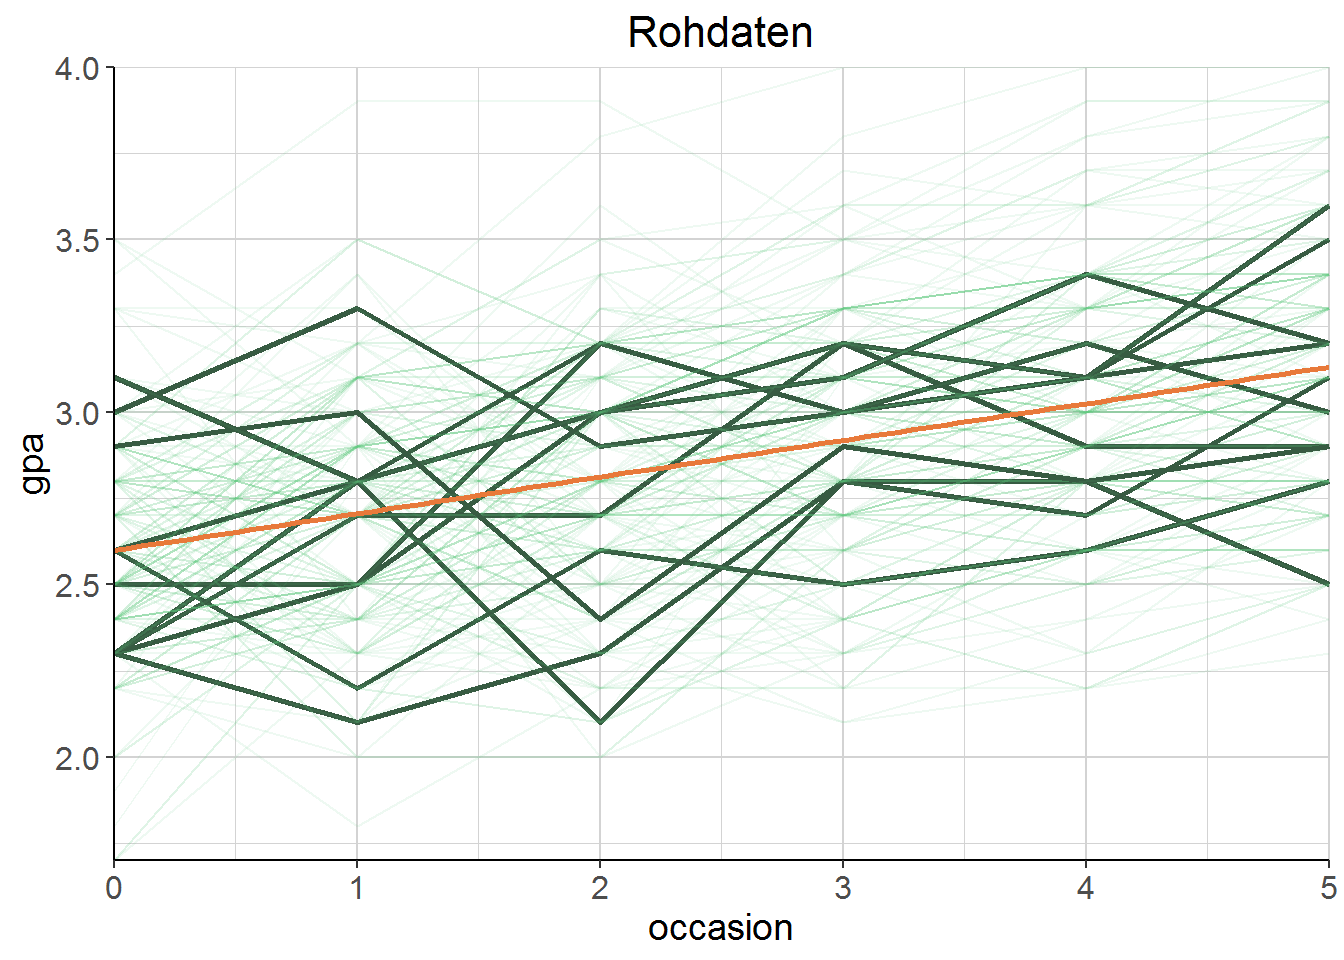
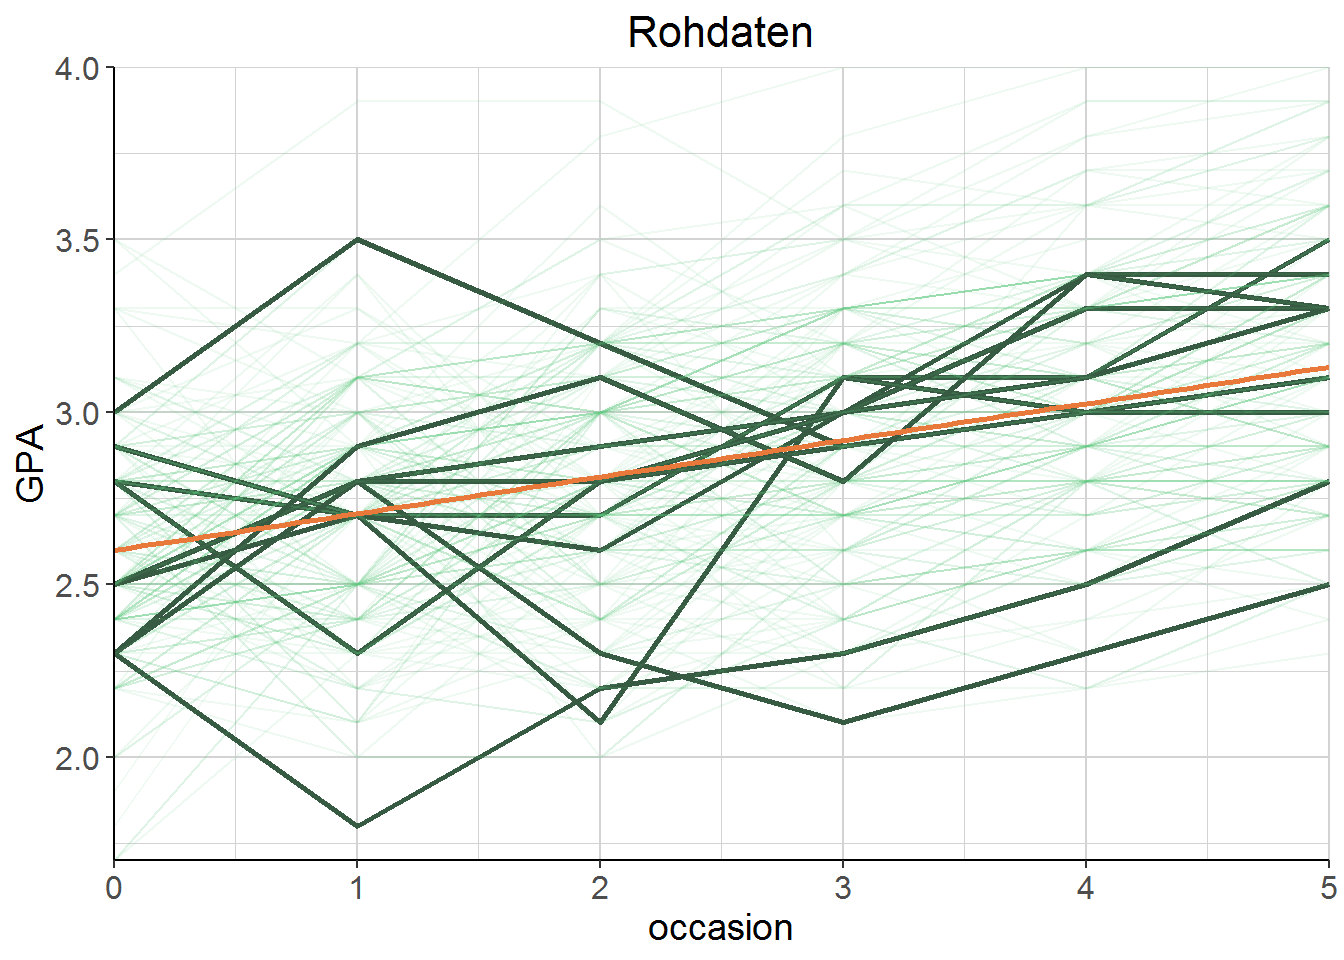
mixed model vs. Regression pro Student vs. Regression mit Interaktion

diff --git a/mixed_models/mixed-models-vs-einzelne-regressionen.html b/mixed_models/mixed-models-vs-einzelne-regressionen.html
@@ -148,7 +148,10 @@ code span.wa { color: #60a0b0; font-weight: bold; font-style: italic; } /* Warni
 </ul></li>
 </ul></li>
 <li class="chapter" data-level="3" data-path="randomslopes.html"><a href="randomslopes.html"><i class="fa fa-check"></i><b>3</b> Random slope models</a><ul>
-<li class="chapter" data-level="3.1" data-path="mixed-models-vs-einzelne-regressionen.html"><a href="mixed-models-vs-einzelne-regressionen.html"><i class="fa fa-check"></i><b>3.1</b> Mixed Models vs. einzelne Regressionen</a></li>
+<li class="chapter" data-level="3.1" data-path="mixed-models-vs-einzelne-regressionen.html"><a href="mixed-models-vs-einzelne-regressionen.html"><i class="fa fa-check"></i><b>3.1</b> Mixed Models vs. einzelne Regressionen</a><ul>
+<li class="chapter" data-level="3.1.1" data-path="mixed-models-vs-einzelne-regressionen.html"><a href="mixed-models-vs-einzelne-regressionen.html#density"><i class="fa fa-check"></i><b>3.1.1</b> Density</a></li>
+<li class="chapter" data-level="3.1.2" data-path="mixed-models-vs-einzelne-regressionen.html"><a href="mixed-models-vs-einzelne-regressionen.html#predictions"><i class="fa fa-check"></i><b>3.1.2</b> Predictions</a></li>
+</ul></li>
 </ul></li>
 </ul>
 
@@ -169,6 +172,8 @@ code span.wa { color: #60a0b0; font-weight: bold; font-style: italic; } /* Warni
             <section class="normal" id="section-">
 <div id="mixed-models-vs.-einzelne-regressionen" class="section level2">
 <h2><span class="header-section-number">3.1</span> Mixed Models vs. einzelne Regressionen</h2>
+<div id="density" class="section level3">
+<h3><span class="header-section-number">3.1.1</span> Density</h3>
 <p>Der Vergleich mit einer einzelnen Regression pro Student liegt nahe, aber hier wird es etwas merkwürdig. Er gibt hier den folgenden Code an, um separate Regressionen pro Student durchzuführen (ich habe ihn etwas modifiziert). Aus der Beschreibung von <code>lmList</code>, scheinbar eine extrem lustige Funktion: “Fit a list of <code>lm</code> or <code>glm</code> objects with a common model for different subgroups of the data.”</p>
 <pre class="sourceCode r"><code class="sourceCode r">gpa_lm_by_group &lt;-<span class="st"> </span><span class="kw">lmList</span>(gpa <span class="op">~</span><span class="st"> </span>occasion <span class="op">|</span><span class="st"> </span>student, gpa)</code></pre>
 <p>Clark schreibt dazu: “Let’s compare these results to the ones we would have gotten had we run a separate regression for each student. In what follows we see the distribution of of (sic) the estimated intercept and slope coefficients for all the students. Note that these are the same estimates one would have gotten with a fixed effects model with an occasion by student interaction.” Aber irgendwie scheint das alles nicht dasselbe zu sein, denn ich habe besagtes Modell auch aufgestellt und es kommt was anderes dabei rum (zumal das Intercept in dem Fall ja auch immer dasselbe ist). Ich weiß nicht, was er sonst damit meinen sollte und ich finde es verstörend. Vielleicht geht mir da noch ein Licht auf.</p>
@@ -177,10 +182,18 @@ code span.wa { color: #60a0b0; font-weight: bold; font-style: italic; } /* Warni
 <p><img src="01_first_things_first_files/figure-html/unnamed-chunk-51-1.png" width="672" /></p>
 <p>In jedem Fall dürfte die Regression Student für Student mit dem Code, den er verwendet hat, das sein, was uns interessiert. Und auch in den zusätzlichen Plots basierend auf Simulationen, <a href="https://m-clark.github.io/mixed-models-with-R/random_slopes.html#comparison-to-many-regressions">die er bastelt</a>, wird die Hauptmessage deutlich: Die Intercepts und Slopes von mixed Models sind weniger extrem und tummeln sich stärker um den overall Effect. Je stärker der Effekt der Subgruppen, desto größer die Unsicherheit über den overall Effect.</p>
 <p>Schöne Erklärung auch zu <span style=" font-weight: bold;    color: #E8793A !important;">partial pooling</span>: <span style=" font-weight: bold;    color: #6BBFA6 !important;">Complete pooling</span> wäre ein standard Regressionsmodell, das Cluster völlig ignoriert. <span style=" font-weight: bold;    color: #6BBFA6 !important;">Gar kein pooling</span> hat man bei der Herangehensweise mit den einzelnen Regressionen pro Student, wie wir das gerade gemacht haben. Mixed models kann man mit <span style=" font-weight: bold;    color: #6BBFA6 !important;">partial pooling</span> beschreiben, weil die Ähnlichkeit zwischen den Clustern geschätzt wird, wobei die Daten über alle Observations hinweg die Schätzung der Cluster informieren.</p>
+</div>
+<div id="predictions" class="section level3">
+<h3><span class="header-section-number">3.1.2</span> Predictions</h3>
 <p>Spannend wird es, wenn man die Vorhersagen der beiden Herangehensweisen (mixed model vs. einzelne Regressionen) visualisiert:</p>
 <p><img src="01_first_things_first_files/figure-html/unnamed-chunk-52-1.png" width="672" /></p>
+<p>Jetzt der Vergleich der Predictions der jeweiligen Modelle. Farblich kodiert werden
+Predictions aufwärts vs. abwärts. Gehighlighted sind im Folgenden immer dieselben sechs Studenten; drei, die im mixed Model einen Aufwärtstrend zeigen und drei, die im mixed Model einen ABwärtstrend zeigen (das sind dort eh nur drei). In Dunkelgrün die overall Regressionslinie.</p>
 <p><img src="01_first_things_first_files/figure-html/unnamed-chunk-53-1.png" width="672" /></p>
-<p><span style=" font-weight: bold;    color: #E8793A !important;">TO DO:</span> Rausfinden, wieso die Linien im zweiten Plot nicht korrekt gehighlighted werden.</p>
+<p>Im Vergleich dazu die Predictions der Regression pro Student und der Regression mit Interaktion Occasion <span class="math inline">\(\times\)</span> Student. <strong>Jetzt</strong> wird auch klar, was er damit meinte, als er sagte, die Regression pro Gruppe und die Regression mit Interaktion seien dasselbe. Die Predictions sind exakt gleich! Das heißt vermutlich, dass ich bei den Density Plots was falsch gemacht/nicht verstanden habe.</p>
+<p><img src="01_first_things_first_files/figure-html/unnamed-chunk-54-1.png" width="672" /></p>
+<p><img src="01_first_things_first_files/figure-html/unnamed-chunk-55-1.png" width="672" /></p>
+</div>
 </div>
 <!-- </div> -->
             </section>

diff --git a/mixed_models/fancy-plot-zum-klauen.html b/mixed_models/fancy-plot-zum-klauen.html
@@ -148,7 +148,10 @@ code span.wa { color: #60a0b0; font-weight: bold; font-style: italic; } /* Warni
 </ul></li>
 </ul></li>
 <li class="chapter" data-level="3" data-path="randomslopes.html"><a href="randomslopes.html"><i class="fa fa-check"></i><b>3</b> Random slope models</a><ul>
-<li class="chapter" data-level="3.1" data-path="mixed-models-vs-einzelne-regressionen.html"><a href="mixed-models-vs-einzelne-regressionen.html"><i class="fa fa-check"></i><b>3.1</b> Mixed Models vs. einzelne Regressionen</a></li>
+<li class="chapter" data-level="3.1" data-path="mixed-models-vs-einzelne-regressionen.html"><a href="mixed-models-vs-einzelne-regressionen.html"><i class="fa fa-check"></i><b>3.1</b> Mixed Models vs. einzelne Regressionen</a><ul>
+<li class="chapter" data-level="3.1.1" data-path="mixed-models-vs-einzelne-regressionen.html"><a href="mixed-models-vs-einzelne-regressionen.html#density"><i class="fa fa-check"></i><b>3.1.1</b> Density</a></li>
+<li class="chapter" data-level="3.1.2" data-path="mixed-models-vs-einzelne-regressionen.html"><a href="mixed-models-vs-einzelne-regressionen.html#predictions"><i class="fa fa-check"></i><b>3.1.2</b> Predictions</a></li>
+</ul></li>
 </ul></li>
 </ul>
 
@@ -179,14 +182,13 @@ gpa &lt;-<span class="st"> </span>gpa <span class="op">%&gt;%</span><span class=
 <span class="st">  </span><span class="kw">mutate</span>(<span class="dt">highlight =</span> <span class="kw">ifelse</span>(student <span class="op">%in%</span><span class="st"> </span><span class="kw">sample</span>(<span class="kw">unique</span>(student), <span class="dv">10</span>), <span class="ot">TRUE</span>, <span class="ot">FALSE</span>))</code></pre>
 <pre class="sourceCode r"><code class="sourceCode r">gpa <span class="op">%&gt;%</span>
 <span class="st">  </span><span class="kw">ggplot</span>(<span class="kw">aes</span>(<span class="dt">x =</span> occasion, <span class="dt">y =</span> gpa)) <span class="op">+</span>
-<span class="st">  </span><span class="co"># Kehrt Reihenfolge um, damit TRUE über FALSE geplottet wird und </span>
-<span class="st">  </span><span class="co"># gehighlightete Linien nicht von den anderen überdeckt werden</span>
-<span class="st">  </span><span class="kw">geom_line</span>(<span class="kw">aes</span>(<span class="dt">group =</span> student, <span class="dt">colour =</span> <span class="kw">rev</span>(highlight), <span class="dt">alpha =</span> <span class="kw">rev</span>(highlight), 
-                <span class="dt">size =</span> <span class="kw">rev</span>(highlight))) <span class="op">+</span>
+<span class="st">  </span><span class="kw">geom_line</span>(<span class="kw">aes</span>(<span class="dt">group =</span> student, <span class="dt">colour =</span> highlight, <span class="dt">alpha =</span> highlight, 
+                <span class="dt">size =</span> highlight)) <span class="op">+</span>
 <span class="st">  </span><span class="kw">geom_smooth</span>(<span class="dt">method =</span> <span class="st">&quot;lm&quot;</span>, <span class="dt">colour =</span> farbschema[<span class="dv">1</span>], <span class="dt">se =</span> <span class="ot">FALSE</span>) <span class="op">+</span>
-<span class="st">  </span><span class="kw">scale_alpha_discrete</span>(<span class="dt">range =</span> <span class="kw">c</span>(.<span class="dv">1</span>, <span class="dv">1</span>)) <span class="op">+</span>
-<span class="st">  </span><span class="kw">scale_size_discrete</span>(<span class="dt">range =</span> <span class="kw">c</span>(.<span class="dv">5</span>, <span class="dv">1</span>)) <span class="op">+</span>
+<span class="st">  </span><span class="kw">scale_alpha_manual</span>(<span class="dt">values =</span> <span class="kw">c</span>(.<span class="dv">1</span>, <span class="dv">1</span>)) <span class="op">+</span>
+<span class="st">  </span><span class="kw">scale_size_manual</span>(<span class="dt">values =</span> <span class="kw">c</span>(.<span class="dv">5</span>, <span class="dv">1</span>)) <span class="op">+</span>
 <span class="st">  </span><span class="kw">scale_colour_manual</span>(<span class="dt">values =</span> <span class="kw">pick_colour</span>(<span class="dv">2</span>, <span class="st">&quot;mono_green&quot;</span>)) <span class="op">+</span>
+<span class="st">  </span><span class="kw">labs</span>(<span class="dt">title =</span> <span class="st">&quot;Rohdaten&quot;</span>) <span class="op">+</span>
 <span class="st">  </span>julis_theme <span class="op">+</span>
 <span class="st">  </span><span class="kw">theme</span>(<span class="dt">legend.position =</span> <span class="st">&quot;none&quot;</span>) <span class="op">+</span>
 <span class="st">  </span><span class="kw">scale_y_continuous</span>(<span class="dt">expand =</span> <span class="kw">c</span>(<span class="dv">0</span>, <span class="dv">0</span>)) <span class="op">+</span>

diff --git a/mixed_models/first-things-first.html b/mixed_models/first-things-first.html
@@ -148,7 +148,10 @@ code span.wa { color: #60a0b0; font-weight: bold; font-style: italic; } /* Warni
 </ul></li>
 </ul></li>
 <li class="chapter" data-level="3" data-path="randomslopes.html"><a href="randomslopes.html"><i class="fa fa-check"></i><b>3</b> Random slope models</a><ul>
-<li class="chapter" data-level="3.1" data-path="mixed-models-vs-einzelne-regressionen.html"><a href="mixed-models-vs-einzelne-regressionen.html"><i class="fa fa-check"></i><b>3.1</b> Mixed Models vs. einzelne Regressionen</a></li>
+<li class="chapter" data-level="3.1" data-path="mixed-models-vs-einzelne-regressionen.html"><a href="mixed-models-vs-einzelne-regressionen.html"><i class="fa fa-check"></i><b>3.1</b> Mixed Models vs. einzelne Regressionen</a><ul>
+<li class="chapter" data-level="3.1.1" data-path="mixed-models-vs-einzelne-regressionen.html"><a href="mixed-models-vs-einzelne-regressionen.html#density"><i class="fa fa-check"></i><b>3.1.1</b> Density</a></li>
+<li class="chapter" data-level="3.1.2" data-path="mixed-models-vs-einzelne-regressionen.html"><a href="mixed-models-vs-einzelne-regressionen.html#predictions"><i class="fa fa-check"></i><b>3.1.2</b> Predictions</a></li>
+</ul></li>
 </ul></li>
 </ul>
 

diff --git a/mixed_models/hilfreiche-definitionen.html b/mixed_models/hilfreiche-definitionen.html
@@ -148,7 +148,10 @@ code span.wa { color: #60a0b0; font-weight: bold; font-style: italic; } /* Warni
 </ul></li>
 </ul></li>
 <li class="chapter" data-level="3" data-path="randomslopes.html"><a href="randomslopes.html"><i class="fa fa-check"></i><b>3</b> Random slope models</a><ul>
-<li class="chapter" data-level="3.1" data-path="mixed-models-vs-einzelne-regressionen.html"><a href="mixed-models-vs-einzelne-regressionen.html"><i class="fa fa-check"></i><b>3.1</b> Mixed Models vs. einzelne Regressionen</a></li>
+<li class="chapter" data-level="3.1" data-path="mixed-models-vs-einzelne-regressionen.html"><a href="mixed-models-vs-einzelne-regressionen.html"><i class="fa fa-check"></i><b>3.1</b> Mixed Models vs. einzelne Regressionen</a><ul>
+<li class="chapter" data-level="3.1.1" data-path="mixed-models-vs-einzelne-regressionen.html"><a href="mixed-models-vs-einzelne-regressionen.html#density"><i class="fa fa-check"></i><b>3.1.1</b> Density</a></li>
+<li class="chapter" data-level="3.1.2" data-path="mixed-models-vs-einzelne-regressionen.html"><a href="mixed-models-vs-einzelne-regressionen.html#predictions"><i class="fa fa-check"></i><b>3.1.2</b> Predictions</a></li>
+</ul></li>
 </ul></li>
 </ul>
 

diff --git a/mixed_models/index.html b/mixed_models/index.html
@@ -148,7 +148,10 @@ code span.wa { color: #60a0b0; font-weight: bold; font-style: italic; } /* Warni
 </ul></li>
 </ul></li>
 <li class="chapter" data-level="3" data-path="randomslopes.html"><a href="randomslopes.html"><i class="fa fa-check"></i><b>3</b> Random slope models</a><ul>
-<li class="chapter" data-level="3.1" data-path="mixed-models-vs-einzelne-regressionen.html"><a href="mixed-models-vs-einzelne-regressionen.html"><i class="fa fa-check"></i><b>3.1</b> Mixed Models vs. einzelne Regressionen</a></li>
+<li class="chapter" data-level="3.1" data-path="mixed-models-vs-einzelne-regressionen.html"><a href="mixed-models-vs-einzelne-regressionen.html"><i class="fa fa-check"></i><b>3.1</b> Mixed Models vs. einzelne Regressionen</a><ul>
+<li class="chapter" data-level="3.1.1" data-path="mixed-models-vs-einzelne-regressionen.html"><a href="mixed-models-vs-einzelne-regressionen.html#density"><i class="fa fa-check"></i><b>3.1.1</b> Density</a></li>
+<li class="chapter" data-level="3.1.2" data-path="mixed-models-vs-einzelne-regressionen.html"><a href="mixed-models-vs-einzelne-regressionen.html#predictions"><i class="fa fa-check"></i><b>3.1.2</b> Predictions</a></li>
+</ul></li>
 </ul></li>
 </ul>
 

diff --git a/mixed_models/mixed-model-in-r.html b/mixed_models/mixed-model-in-r.html
@@ -148,7 +148,10 @@ code span.wa { color: #60a0b0; font-weight: bold; font-style: italic; } /* Warni
 </ul></li>
 </ul></li>
 <li class="chapter" data-level="3" data-path="randomslopes.html"><a href="randomslopes.html"><i class="fa fa-check"></i><b>3</b> Random slope models</a><ul>
-<li class="chapter" data-level="3.1" data-path="mixed-models-vs-einzelne-regressionen.html"><a href="mixed-models-vs-einzelne-regressionen.html"><i class="fa fa-check"></i><b>3.1</b> Mixed Models vs. einzelne Regressionen</a></li>
+<li class="chapter" data-level="3.1" data-path="mixed-models-vs-einzelne-regressionen.html"><a href="mixed-models-vs-einzelne-regressionen.html"><i class="fa fa-check"></i><b>3.1</b> Mixed Models vs. einzelne Regressionen</a><ul>
+<li class="chapter" data-level="3.1.1" data-path="mixed-models-vs-einzelne-regressionen.html"><a href="mixed-models-vs-einzelne-regressionen.html#density"><i class="fa fa-check"></i><b>3.1.1</b> Density</a></li>
+<li class="chapter" data-level="3.1.2" data-path="mixed-models-vs-einzelne-regressionen.html"><a href="mixed-models-vs-einzelne-regressionen.html#predictions"><i class="fa fa-check"></i><b>3.1.2</b> Predictions</a></li>
+</ul></li>
 </ul></li>
 </ul>
 

diff --git a/mixed_models/problem-einfache-regression.html b/mixed_models/problem-einfache-regression.html
@@ -148,7 +148,10 @@ code span.wa { color: #60a0b0; font-weight: bold; font-style: italic; } /* Warni
 </ul></li>
 </ul></li>
 <li class="chapter" data-level="3" data-path="randomslopes.html"><a href="randomslopes.html"><i class="fa fa-check"></i><b>3</b> Random slope models</a><ul>
-<li class="chapter" data-level="3.1" data-path="mixed-models-vs-einzelne-regressionen.html"><a href="mixed-models-vs-einzelne-regressionen.html"><i class="fa fa-check"></i><b>3.1</b> Mixed Models vs. einzelne Regressionen</a></li>
+<li class="chapter" data-level="3.1" data-path="mixed-models-vs-einzelne-regressionen.html"><a href="mixed-models-vs-einzelne-regressionen.html"><i class="fa fa-check"></i><b>3.1</b> Mixed Models vs. einzelne Regressionen</a><ul>
+<li class="chapter" data-level="3.1.1" data-path="mixed-models-vs-einzelne-regressionen.html"><a href="mixed-models-vs-einzelne-regressionen.html#density"><i class="fa fa-check"></i><b>3.1.1</b> Density</a></li>
+<li class="chapter" data-level="3.1.2" data-path="mixed-models-vs-einzelne-regressionen.html"><a href="mixed-models-vs-einzelne-regressionen.html#predictions"><i class="fa fa-check"></i><b>3.1.2</b> Predictions</a></li>
+</ul></li>
 </ul></li>
 </ul>
 

diff --git a/mixed_models/random-intercept-models.html b/mixed_models/random-intercept-models.html
@@ -148,7 +148,10 @@ code span.wa { color: #60a0b0; font-weight: bold; font-style: italic; } /* Warni
 </ul></li>
 </ul></li>
 <li class="chapter" data-level="3" data-path="randomslopes.html"><a href="randomslopes.html"><i class="fa fa-check"></i><b>3</b> Random slope models</a><ul>
-<li class="chapter" data-level="3.1" data-path="mixed-models-vs-einzelne-regressionen.html"><a href="mixed-models-vs-einzelne-regressionen.html"><i class="fa fa-check"></i><b>3.1</b> Mixed Models vs. einzelne Regressionen</a></li>
+<li class="chapter" data-level="3.1" data-path="mixed-models-vs-einzelne-regressionen.html"><a href="mixed-models-vs-einzelne-regressionen.html"><i class="fa fa-check"></i><b>3.1</b> Mixed Models vs. einzelne Regressionen</a><ul>
+<li class="chapter" data-level="3.1.1" data-path="mixed-models-vs-einzelne-regressionen.html"><a href="mixed-models-vs-einzelne-regressionen.html#density"><i class="fa fa-check"></i><b>3.1.1</b> Density</a></li>
+<li class="chapter" data-level="3.1.2" data-path="mixed-models-vs-einzelne-regressionen.html"><a href="mixed-models-vs-einzelne-regressionen.html#predictions"><i class="fa fa-check"></i><b>3.1.2</b> Predictions</a></li>
+</ul></li>
 </ul></li>
 </ul>
 

diff --git a/mixed_models/randomslopes.html b/mixed_models/randomslopes.html
@@ -148,7 +148,10 @@ code span.wa { color: #60a0b0; font-weight: bold; font-style: italic; } /* Warni
 </ul></li>
 </ul></li>
 <li class="chapter" data-level="3" data-path="randomslopes.html"><a href="randomslopes.html"><i class="fa fa-check"></i><b>3</b> Random slope models</a><ul>
-<li class="chapter" data-level="3.1" data-path="mixed-models-vs-einzelne-regressionen.html"><a href="mixed-models-vs-einzelne-regressionen.html"><i class="fa fa-check"></i><b>3.1</b> Mixed Models vs. einzelne Regressionen</a></li>
+<li class="chapter" data-level="3.1" data-path="mixed-models-vs-einzelne-regressionen.html"><a href="mixed-models-vs-einzelne-regressionen.html"><i class="fa fa-check"></i><b>3.1</b> Mixed Models vs. einzelne Regressionen</a><ul>
+<li class="chapter" data-level="3.1.1" data-path="mixed-models-vs-einzelne-regressionen.html"><a href="mixed-models-vs-einzelne-regressionen.html#density"><i class="fa fa-check"></i><b>3.1.1</b> Density</a></li>
+<li class="chapter" data-level="3.1.2" data-path="mixed-models-vs-einzelne-regressionen.html"><a href="mixed-models-vs-einzelne-regressionen.html#predictions"><i class="fa fa-check"></i><b>3.1.2</b> Predictions</a></li>
+</ul></li>
 </ul></li>
 </ul>
 

diff --git a/mixed_models/simulationen.html b/mixed_models/simulationen.html
@@ -148,7 +148,10 @@ code span.wa { color: #60a0b0; font-weight: bold; font-style: italic; } /* Warni
 </ul></li>
 </ul></li>
 <li class="chapter" data-level="3" data-path="randomslopes.html"><a href="randomslopes.html"><i class="fa fa-check"></i><b>3</b> Random slope models</a><ul>
-<li class="chapter" data-level="3.1" data-path="mixed-models-vs-einzelne-regressionen.html"><a href="mixed-models-vs-einzelne-regressionen.html"><i class="fa fa-check"></i><b>3.1</b> Mixed Models vs. einzelne Regressionen</a></li>
+<li class="chapter" data-level="3.1" data-path="mixed-models-vs-einzelne-regressionen.html"><a href="mixed-models-vs-einzelne-regressionen.html"><i class="fa fa-check"></i><b>3.1</b> Mixed Models vs. einzelne Regressionen</a><ul>
+<li class="chapter" data-level="3.1.1" data-path="mixed-models-vs-einzelne-regressionen.html"><a href="mixed-models-vs-einzelne-regressionen.html#density"><i class="fa fa-check"></i><b>3.1.1</b> Density</a></li>
+<li class="chapter" data-level="3.1.2" data-path="mixed-models-vs-einzelne-regressionen.html"><a href="mixed-models-vs-einzelne-regressionen.html#predictions"><i class="fa fa-check"></i><b>3.1.2</b> Predictions</a></li>
+</ul></li>
 </ul></li>
 </ul>
 
